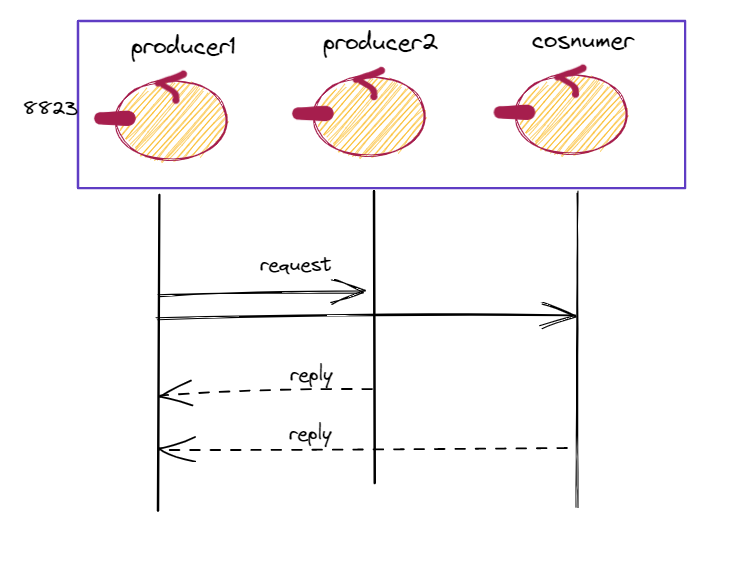
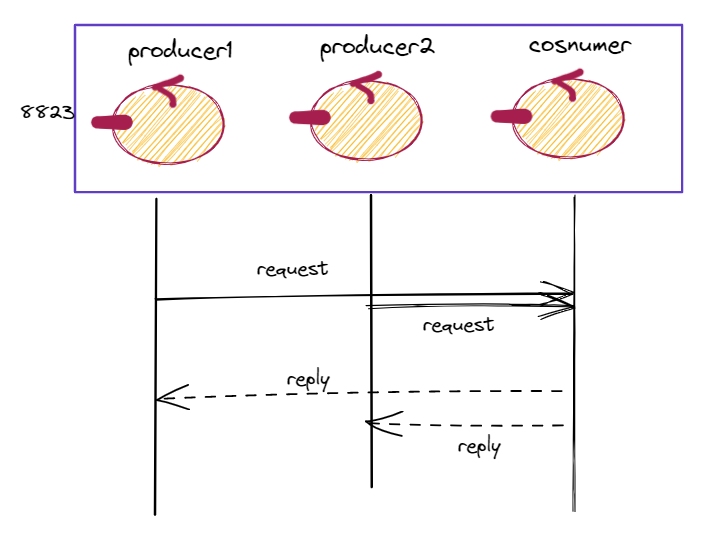
afterLez20April

Changed region(s): [[0.0303, 0.031, 0.9407, 0.929], [0.2124, 0.6193, 0.3641, 0.8361], [0.2124, 0.898, 0.2428, 0.929]]

diff --git a/ProducerConsumer/app/src/main/java/ProdConsActors23/MainProdConsActors23Verbose.java b/ProducerConsumer/app/src/main/java/ProdConsActors23/MainProdConsActors23Verbose.java
@@ -11,7 +11,7 @@ import unibo.basicomm23.utils.CommUtils;
 public class MainProdConsActors23Verbose {
     public void configureTheSystem(){
         System.setProperty(org.slf4j.impl.SimpleLogger.DEFAULT_LOG_LEVEL_KEY, "ERROR");
-        //Actor23Utils.trace=true;
+        Actor23Utils.trace=true;
         CommUtils.aboutThreads(  "MainProdConsActors23Verbose | At START ");
 
         int port1 = 8123;
@@ -23,7 +23,7 @@ public class MainProdConsActors23Verbose {
 
         Producer prod1 = new Producer("prod1",ctx1);
         Consumer consumer = new Consumer("consumer", ctx1); //Autostart
-        Producer prod2 = new Producer("prod3",ctx2);
+        Producer prod2 = new Producer("prod2",ctx2);
         Producer prod3 = new Producer("prod3",ctx2);
 
         ctx1.addActor(prod1);
@@ -33,14 +33,15 @@ public class MainProdConsActors23Verbose {
 
         CommUtils.outmagenta("MainActors23 FISSA GLI ACTOR REMOTI");
         ctx1.setActorAsRemote("prod2",""+port2, "localhost", ProtocolType.tcp);
-        ctx2.setActorAsRemote("consumer",""+port1, "localhost", ProtocolType.tcp);
         ctx1.setActorAsRemote("prod3",""+port2, "localhost", ProtocolType.tcp);
+        ctx2.setActorAsRemote("consumer",""+port1, "localhost", ProtocolType.tcp);
 
         ctx1.showActorNames();
         ctx2.showActorNames();
         CommUtils.aboutThreads(  "MainProdConsActors23Verbose | BEFORE ACTIVATE ");
         Actor23Utils.activateActorsInContext(ctx1);
-        ctx2.activateLocalActors();
+        //tx2.activateLocalActors();
+        Actor23Utils.activateActorsInContext(ctx2);
         CommUtils.aboutThreads(  "MainProdConsActors23Verbose | AFTER ACTIVATE ");
 
     }

diff --git a/ProducerConsumer/app/src/main/java/ProdConsActors23/Producer.java b/ProducerConsumer/app/src/main/java/ProdConsActors23/Producer.java
@@ -14,12 +14,13 @@ public class Producer extends ActorBasic23 {
     }
 
     @Override
-    protected void elabMsg(IApplMessage msg) throws Exception {
-        //CommUtils.outgray(name + " | elabMsg " + msg + " in:" + Thread.currentThread().getName());
+    protected void elabMsg(IApplMessage msg)   {
+        //CommUtils.outmagenta(name + " | elabMsg " + msg + " in:" + Thread.currentThread().getName());
         if( msg.msgId().equals("startcmd") && msg.msgContent().equals("start")){
             String d = prodLogic.getDistance();
             //CommUtils.delay(3000); //wait before producing ..
-            IApplMessage infoMsg  = CommUtils.buildRequest(name, "info", d, "consumer");
+            IApplMessage infoMsg  =
+                    CommUtils.buildRequest(name, "info", d, "consumer");
             CommUtils.outblue(name + " | SENDS " + infoMsg + " in:" + Thread.currentThread().getName());
             request(infoMsg);
             return;

diff --git a/ProducerConsumer/app/src/main/java/ProdConsActors23/onectx/MainProdConsAll.java b/ProducerConsumer/app/src/main/java/ProdConsActors23/onectx/MainProdConsAll.java
@@ -6,7 +6,7 @@ import unibo.basicomm23.utils.CommUtils;
 
 public class MainProdConsAll {
     public void configureTheSystem(){
-        String userDir = System.getProperty("user.dir"); //C:\Didattica2023\issLab23\ProducerConsumer
+        String userDir = System.getProperty("user.dir");
         CommUtils.outblue("Working Directory = " + userDir);
         //Actor23Utils.trace = true;
         //Connection.trace   = true;

diff --git a/ProducerConsumer/app/src/main/java/ProdConsInteraction/MainProdCons.java b/ProducerConsumer/app/src/main/java/ProdConsInteraction/MainProdCons.java
@@ -13,7 +13,7 @@ public class MainProdCons {
 
     public void configureTheSystemFinal(){
         //Connection.trace   = true;
-        ProdConsConfig.setProtocol(ProtocolType.coap);  //tcp udp coap
+        ProdConsConfig.setProtocol(ProtocolType.tcp);  //tcp udp coap
         //Create the producers
         Producer producer1 = new Producer("prod1");
         Producer producer2 = new Producer("prod2");
